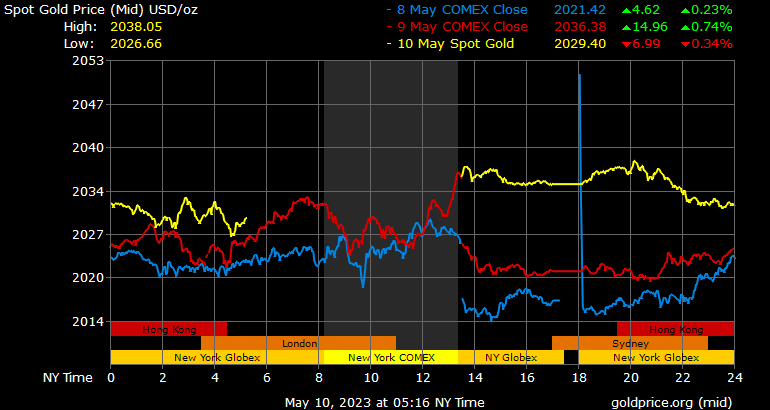
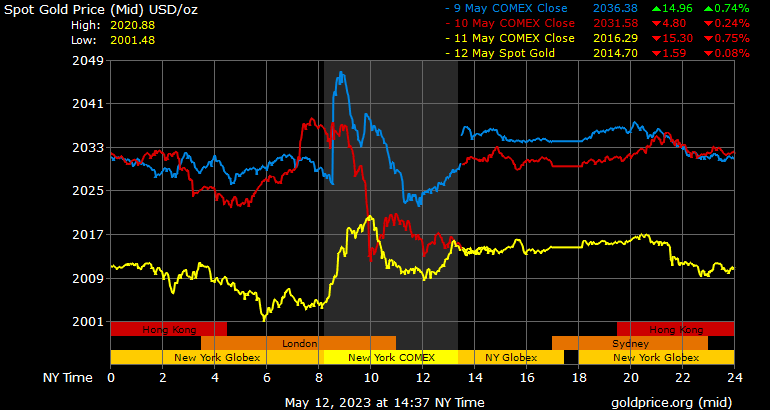
Edit tool bar

diff --git a/udemy/GoDesktopAppsWithFyne/goldwatcher/toolbar.go b/udemy/GoDesktopAppsWithFyne/goldwatcher/toolbar.go
@@ -1,6 +1,12 @@
 package main
 
 import (
+	"goldwatcher/repository"
+	"strconv"
+	"time"
+
+	"fyne.io/fyne/v2"
+	"fyne.io/fyne/v2/dialog"
 	"fyne.io/fyne/v2/theme"
 	"fyne.io/fyne/v2/widget"
 )
@@ -8,7 +14,9 @@ import (
 func (app *Config) getToolBar() *widget.Toolbar {
 	toolBar := widget.NewToolbar(
 		widget.NewToolbarSpacer(),
-		widget.NewToolbarAction(theme.DocumentCreateIcon(), func() {}),
+		widget.NewToolbarAction(theme.DocumentCreateIcon(), func() {
+			app.addHoldingsDialog()
+		}),
 		widget.NewToolbarAction(theme.ViewRefreshIcon(), func() {
 			app.refreshPriceContent()
 		}),
@@ -16,4 +24,76 @@ func (app *Config) getToolBar() *widget.Toolbar {
 	)
 
 	return toolBar
+}
+
+func (app *Config) addHoldingsDialog() dialog.Dialog {
+	addAmountEntry := widget.NewEntry()
+	purchaseDateEntry := widget.NewEntry()
+	purchasePriceEntry := widget.NewEntry()
+
+	app.AddHoldingsPurchaseAmountEntry = addAmountEntry
+	app.AddHoldingsPurchaseDateEntry = purchaseDateEntry
+	app.AddHoldingsPurchasePriceEntry = purchasePriceEntry
+
+	dateValidator := func(s string) error {
+		if _, err := time.Parse("2006-01-02", s); err != nil {
+			return err
+		}
+		return nil
+	}
+	purchaseDateEntry.Validator = dateValidator
+
+	isIntValidator := func(s string) error {
+		if _, err := strconv.Atoi(s); err != nil {
+			return err
+		}
+		return nil
+	}
+	addAmountEntry.Validator = isIntValidator
+
+	isFloatValidator := func(s string) error {
+		if _, err := strconv.ParseFloat(s, 32); err != nil {
+			return err
+		}
+		return nil
+	}
+	purchasePriceEntry.Validator = isFloatValidator
+
+	purchaseDateEntry.PlaceHolder = "YYYY-MM-DD"
+
+	// create a dialog
+	addForm := dialog.NewForm(
+		"Add Gold",
+		"Add",
+		"Cancel",
+		[]*widget.FormItem{
+			{Text: "Amount in toz", Widget: addAmountEntry},
+			{Text: "Purchase Price", Widget: purchasePriceEntry},
+			{Text: "Purchase Date", Widget: purchaseDateEntry},
+		},
+		func(valid bool) {
+			if valid {
+				amount, _ := strconv.Atoi(addAmountEntry.Text)
+				purchaseDate, _ := time.Parse("2006-01-02", purchaseDateEntry.Text)
+				purchasePrice, _ := strconv.ParseFloat(purchasePriceEntry.Text, 32)
+
+				_, err := app.DB.InsertHoldings(repository.Holdings{
+					Amount:        amount,
+					PurchaseDate:  purchaseDate,
+					PurchasePrice: int(purchasePrice),
+				})
+				if err != nil {
+					app.ErrorLog.Println(err)
+				}
+				app.refreshHoldingsTable()
+			}
+		},
+		app.MainWindow,
+	)
+
+	// sixe the dialog
+	addForm.Resize(fyne.Size{Width: 400})
+	addForm.Show()
+
+	return addForm
 }

diff --git a/udemy/GoDesktopAppsWithFyne/goldwatcher/holdings-tab.go b/udemy/GoDesktopAppsWithFyne/goldwatcher/holdings-tab.go
@@ -86,7 +86,7 @@ func (app *Config) getHoldingsSlice() [][]interface{} {
 	for _, h := range holdings {
 		var currentRow []interface{}
 		currentRow = append(currentRow, strconv.FormatInt(h.ID, 10))
-		currentRow = append(currentRow, fmt.Sprintf("%.2f", h.Amount))
+		currentRow = append(currentRow, fmt.Sprintf("%d", h.Amount))
 		currentRow = append(currentRow, fmt.Sprintf("%.2f", float32(h.PurchasePrice)/100))
 		currentRow = append(currentRow, h.PurchaseDate.Format("2006-01-02"))
 		// Last column is a button to delete the row

diff --git a/udemy/GoDesktopAppsWithFyne/goldwatcher/main.go b/udemy/GoDesktopAppsWithFyne/goldwatcher/main.go
@@ -27,6 +27,9 @@ type Config struct {
 	HoldingsTable       *widget.Table
 	PriceChartContainer *fyne.Container
 	HttpClient          *http.Client
+	AddHoldingsPurchaseAmountEntry *widget.Entry
+	AddHoldingsPurchaseDateEntry *widget.Entry
+	AddHoldingsPurchasePriceEntry *widget.Entry
 }
 
 func main() {

diff --git a/udemy/GoDesktopAppsWithFyne/goldwatcher/repository/repository.go b/udemy/GoDesktopAppsWithFyne/goldwatcher/repository/repository.go
@@ -24,7 +24,7 @@ type Repository interface {
 
 type Holdings struct {
 	ID            int64     `json:"id"`
-	Amount        float64   `json:"amount"`
+	Amount        int   `json:"amount"`
 	PurchaseDate  time.Time `json:"purchase_date"`
 	PurchasePrice int       `json:"purchase_price"`
 }
